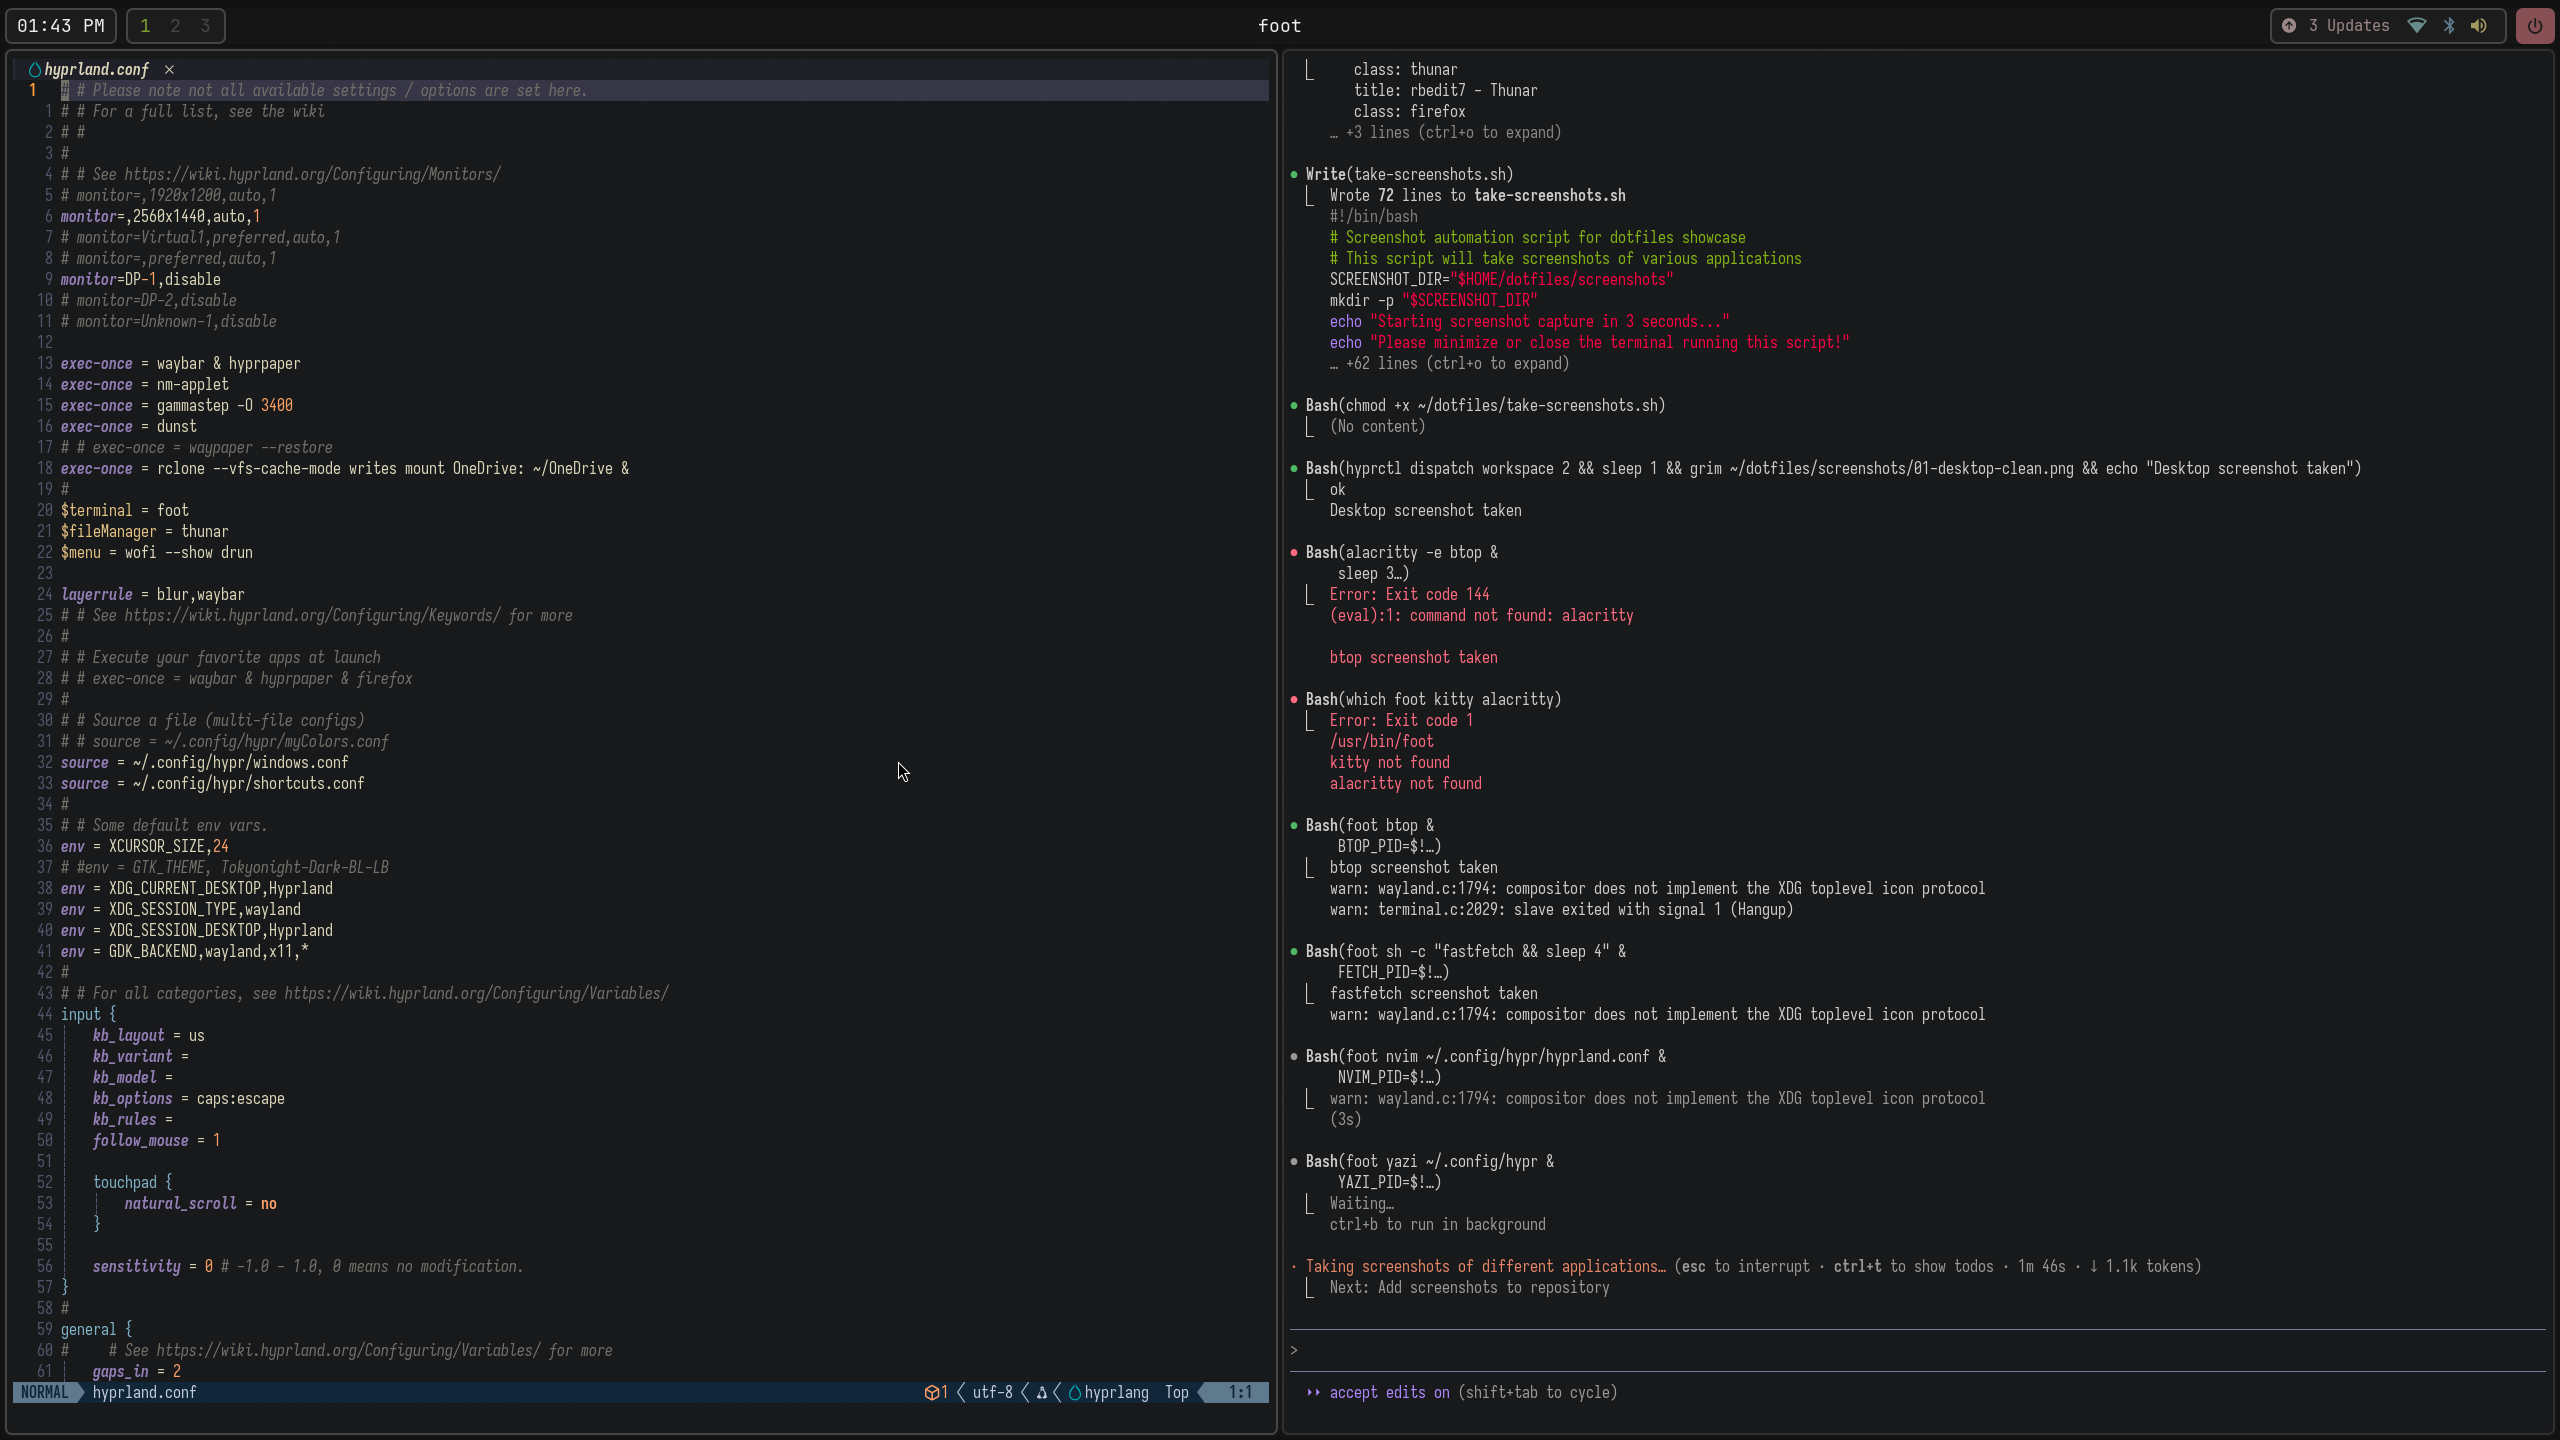
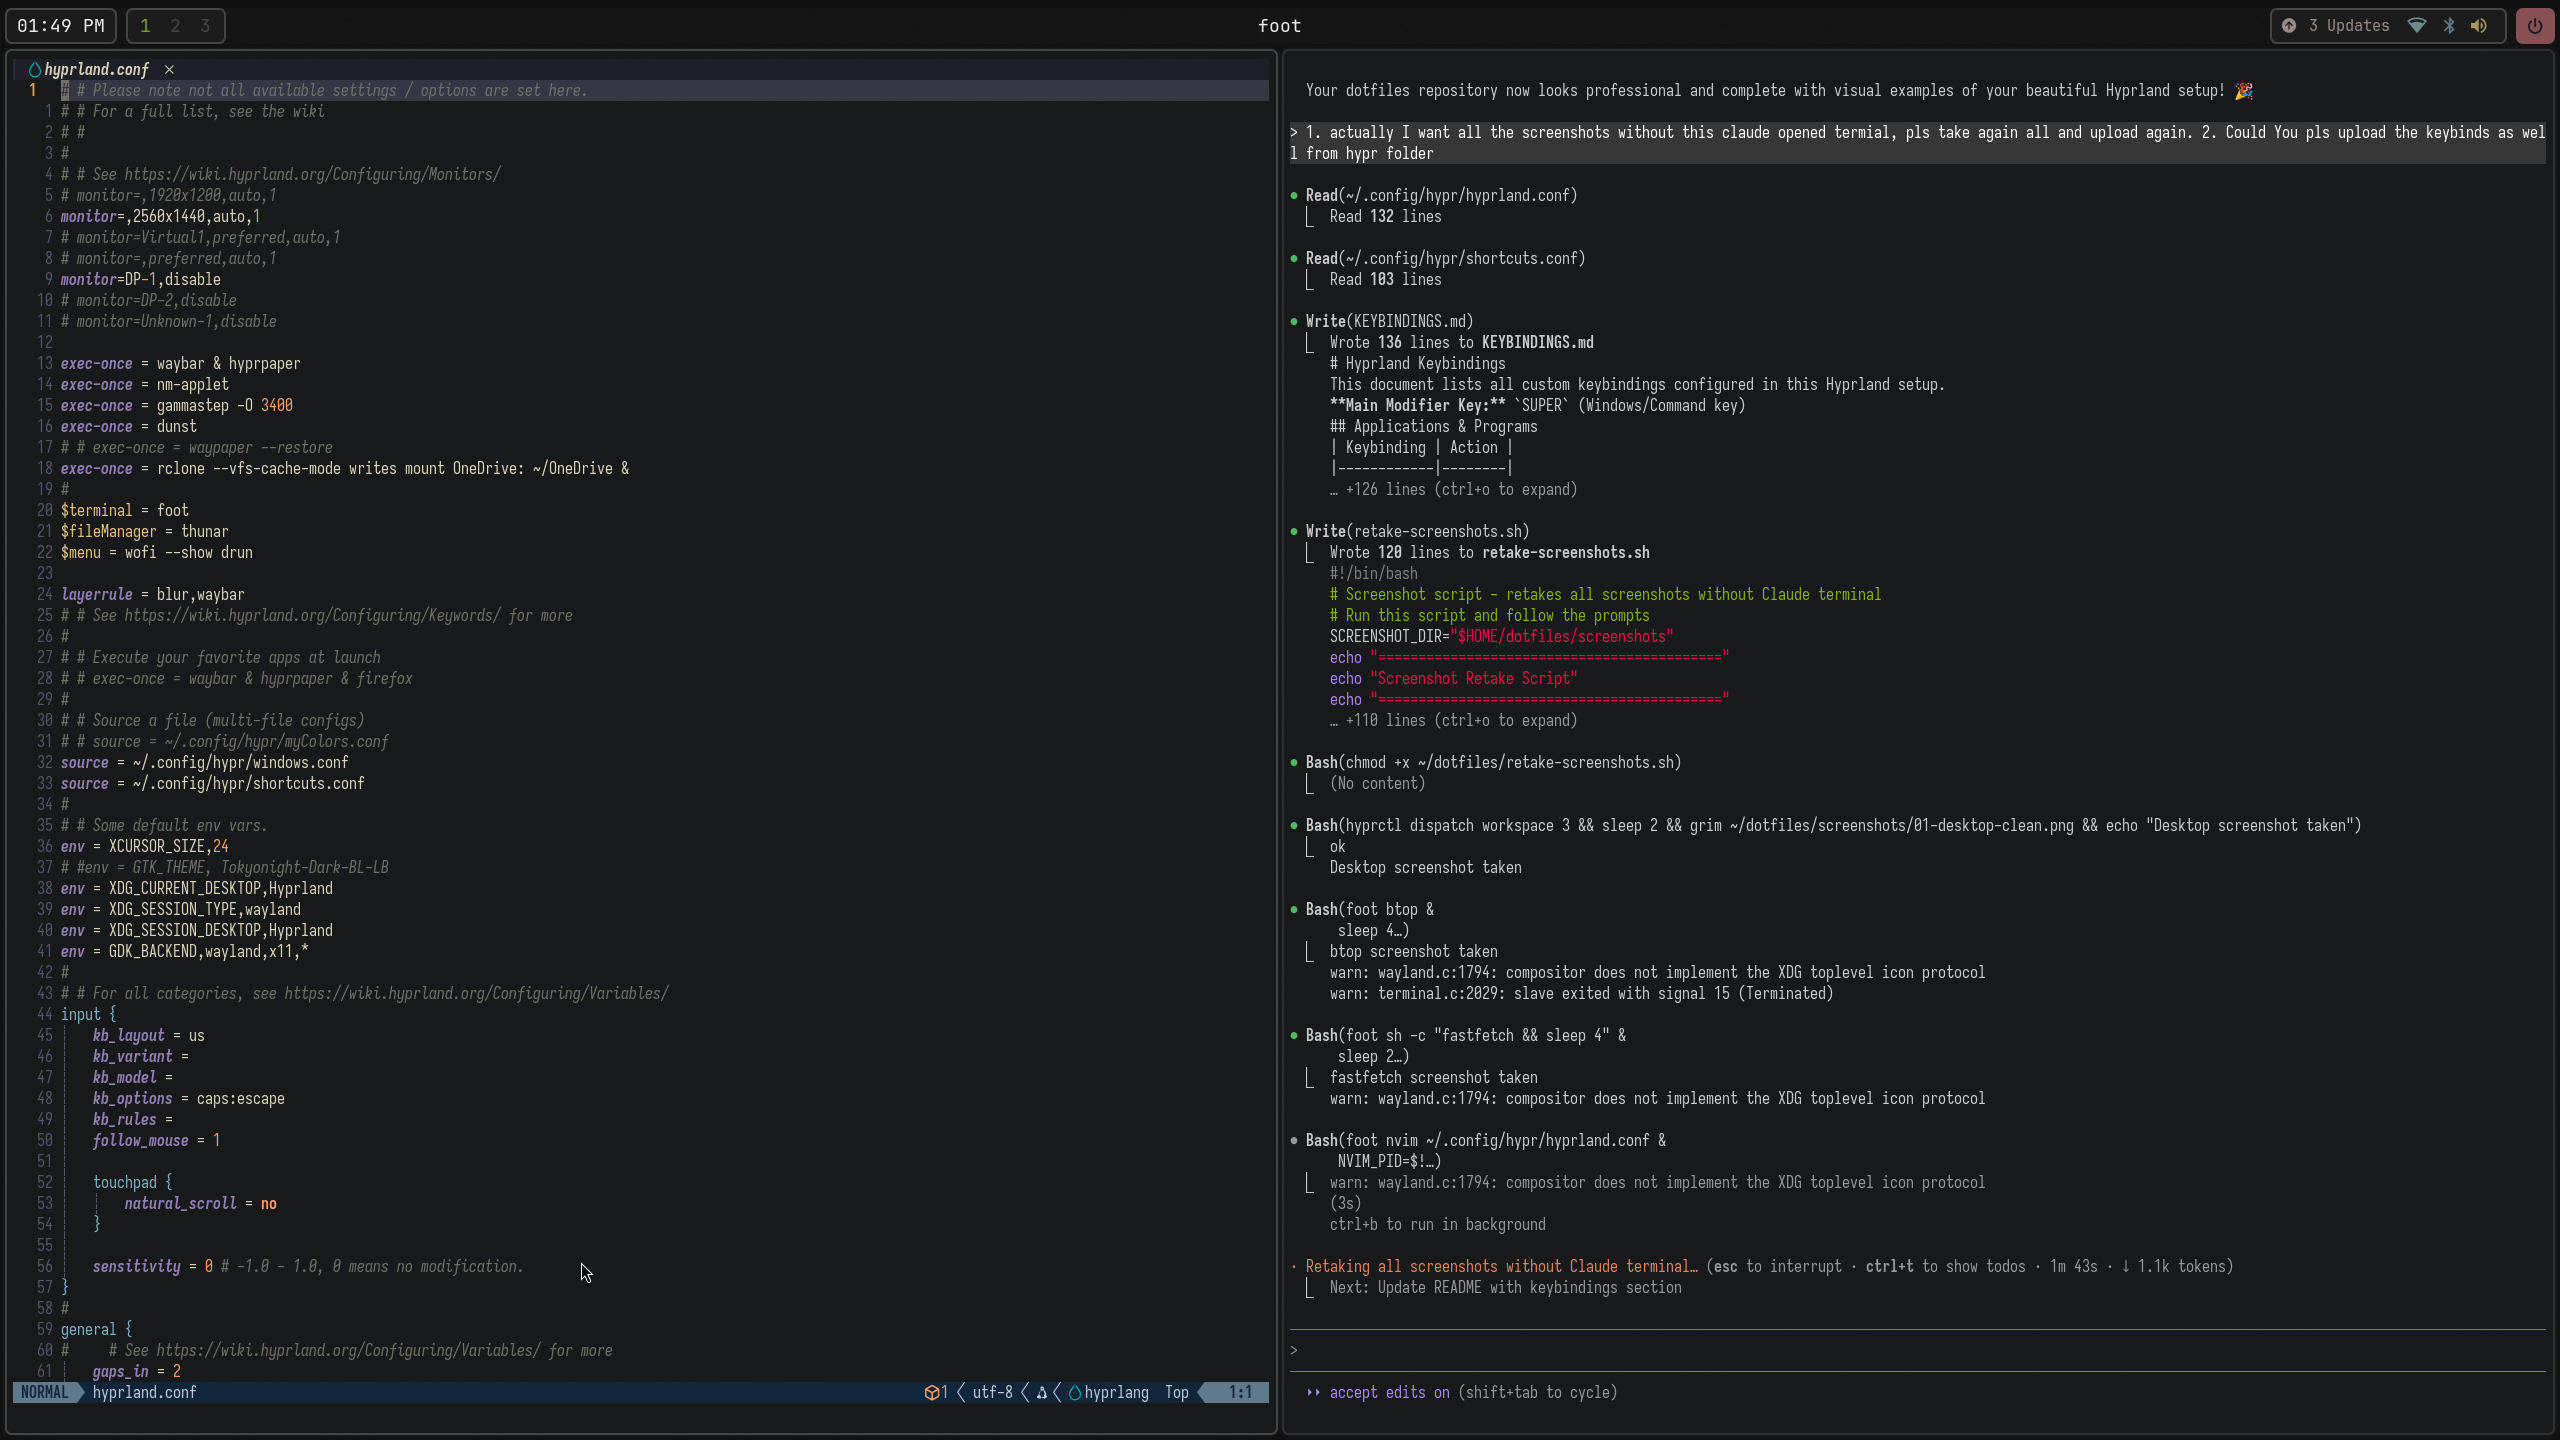
Update screenshots and add comprehensive keybindings documentation
Screenshots:
- Retaken all 8 screenshots without Claude terminal visible
- Clean, professional captures of desktop, applications, and tools
- Updated desktop, btop, fastfetch, neovim, yazi, firefox, thunar, and waybar screenshots

Keybindings:
- Added comprehensive KEYBINDINGS.md with all Hyprland shortcuts
- Documented application launchers, window management, workspaces
- Included vim-style navigation, mouse actions, and media controls
- Added keybindings summary to README for quick reference
- Complete reference for screenshots, customization, and function keys

Scripts:
- Added retake-screenshots.sh for easy screenshot updates

🤖 Generated with [Claude Code](https://claude.com/claude-code)

diff --git a/KEYBINDINGS.md b/KEYBINDINGS.md
@@ -1,0 +1,135 @@
+# Hyprland Keybindings
+
+This document lists all custom keybindings configured in this Hyprland setup.
+
+**Main Modifier Key:** `SUPER` (Windows/Command key)
+
+## Applications & Programs
+
+| Keybinding | Action |
+|------------|--------|
+| `SUPER + Return` | Open terminal (foot) |
+| `SUPER + B` | Open Firefox browser |
+| `SUPER + E` | Open file manager (Thunar) |
+| `SUPER + Space` | Open fuzzel launcher |
+| `SUPER + D` | Open wofi launcher |
+| `SUPER + SHIFT + P` | Open PavuControl (audio settings) |
+
+## Window Management
+
+| Keybinding | Action |
+|------------|--------|
+| `SUPER + Q` | Kill active window |
+| `SUPER + F` | Toggle fullscreen |
+| `SUPER + V` | Toggle floating mode |
+| `SUPER + P` | Pseudo-tile (dwindle) |
+| `SUPER + U` | Toggle split (dwindle) |
+| `CTRL + ALT + Delete` | Exit Hyprland |
+
+## Window Focus (Vim Keys)
+
+| Keybinding | Action |
+|------------|--------|
+| `SUPER + h` | Move focus left |
+| `SUPER + l` | Move focus right |
+| `SUPER + k` | Move focus up |
+| `SUPER + j` | Move focus down |
+
+## Window Focus (Arrow Keys)
+
+| Keybinding | Action |
+|------------|--------|
+| `SUPER + Left` | Move focus left |
+| `SUPER + Right` | Move focus right |
+| `SUPER + Up` | Move focus up |
+| `SUPER + Down` | Move focus down |
+
+## Move Windows (Vim Keys)
+
+| Keybinding | Action |
+|------------|--------|
+| `SUPER + SHIFT + H` | Move window left |
+| `SUPER + SHIFT + L` | Move window right |
+| `SUPER + SHIFT + K` | Move window up |
+| `SUPER + SHIFT + J` | Move window down |
+
+## Workspaces
+
+| Keybinding | Action |
+|------------|--------|
+| `SUPER + 1-9` | Switch to workspace 1-9 |
+| `SUPER + 0` | Switch to workspace 10 |
+| `SUPER + Mouse Scroll Up` | Next workspace |
+| `SUPER + Mouse Scroll Down` | Previous workspace |
+
+## Move Windows to Workspaces
+
+| Keybinding | Action |
+|------------|--------|
+| `SUPER + SHIFT + 1-9` | Move active window to workspace 1-9 |
+| `SUPER + SHIFT + 0` | Move active window to workspace 10 |
+
+## Mouse Actions
+
+| Keybinding | Action |
+|------------|--------|
+| `SUPER + Left Click (drag)` | Move window |
+| `SUPER + Right Click (drag)` | Resize window |
+
+## Screenshots
+
+| Keybinding | Action |
+|------------|--------|
+| `SUPER + ALT + S` | Screenshot entire screen (save & copy to clipboard) |
+| `SUPER + SHIFT + S` | Screenshot selection (save & copy to clipboard) |
+
+Screenshots are saved to `~/Pictures/sc/` with timestamp.
+
+## Appearance & Customization
+
+| Keybinding | Action |
+|------------|--------|
+| `SUPER + S` | Open waybar theme switcher |
+| `SUPER + R` | Switch foot terminal theme |
+| `SUPER + SHIFT + W` | Restart waybar |
+| `SUPER + CTRL + W` | Open waypaper (wallpaper selector) |
+
+## Media Controls
+
+| Keybinding | Action |
+|------------|--------|
+| `XF86AudioPlay` | Play/Pause media |
+| `XF86AudioPause` | Pause media |
+| `XF86AudioNext` | Next track |
+| `XF86AudioPrev` | Previous track |
+| `XF86AudioRaiseVolume` | Increase volume |
+| `XF86AudioLowerVolume` | Decrease volume |
+| `XF86AudioMute` | Toggle mute |
+| `XF86AudioMicMute` | Toggle microphone mute |
+
+## Brightness
+
+| Keybinding | Action |
+|------------|--------|
+| `XF86MonBrightnessUp` | Increase brightness |
+| `XF86MonBrightnessDown` | Decrease brightness |
+
+## Special Function Keys
+
+| Keybinding | Action |
+|------------|--------|
+| `XF86Calculator` | Open calculator (qalculate-gtk) |
+| `XF86Lock` | Lock screen (hyprlock) |
+
+## Configuration Files
+
+- Main config: `~/.config/hypr/hyprland.conf`
+- Keybindings: `~/.config/hypr/shortcuts.conf`
+- Window rules: `~/.config/hypr/windows.conf`
+
+## Notes
+
+- All keybindings can be customized by editing `~/.config/hypr/shortcuts.conf`
+- Screenshots require `grim`, `slurp`, and `wl-copy` to be installed
+- Media controls work with `playerctl`
+- Volume and brightness controls use custom scripts

diff --git a/README.md b/README.md
@@ -57,6 +57,52 @@ A comprehensive dotfiles repository for Arch Linux with Hyprland wayland composi
 - **Status Bar**: Waybar with custom modules
 - **System Monitoring**: btop for beautiful system monitoring
 
+## Keybindings
+
+This setup includes extensive custom keybindings for efficient workflow. Here are the most important ones:
+
+### Essential Shortcuts
+
+| Keybinding | Action |
+|------------|--------|
+| `SUPER + Return` | Open terminal (foot) |
+| `SUPER + Q` | Close active window |
+| `SUPER + B` | Open Firefox |
+| `SUPER + E` | Open file manager (Thunar) |
+| `SUPER + Space` | Open fuzzel launcher |
+| `SUPER + F` | Toggle fullscreen |
+
+### Window Navigation (Vim Keys)
+
+| Keybinding | Action |
+|------------|--------|
+| `SUPER + h/j/k/l` | Move focus left/down/up/right |
+| `SUPER + SHIFT + h/j/k/l` | Move window left/down/up/right |
+
+### Workspaces
+
+| Keybinding | Action |
+|------------|--------|
+| `SUPER + 1-9` | Switch to workspace 1-9 |
+| `SUPER + SHIFT + 1-9` | Move window to workspace 1-9 |
+
+### Screenshots
+
+| Keybinding | Action |
+|------------|--------|
+| `SUPER + ALT + S` | Screenshot entire screen |
+| `SUPER + SHIFT + S` | Screenshot selection |
+
+### Customization
+
+| Keybinding | Action |
+|------------|--------|
+| `SUPER + S` | Waybar theme switcher |
+| `SUPER + R` | Terminal theme switcher |
+| `SUPER + CTRL + W` | Wallpaper selector |
+
+**For complete keybindings list, see [KEYBINDINGS.md](KEYBINDINGS.md)**
+
 ## Directory Structure
 
 ```
